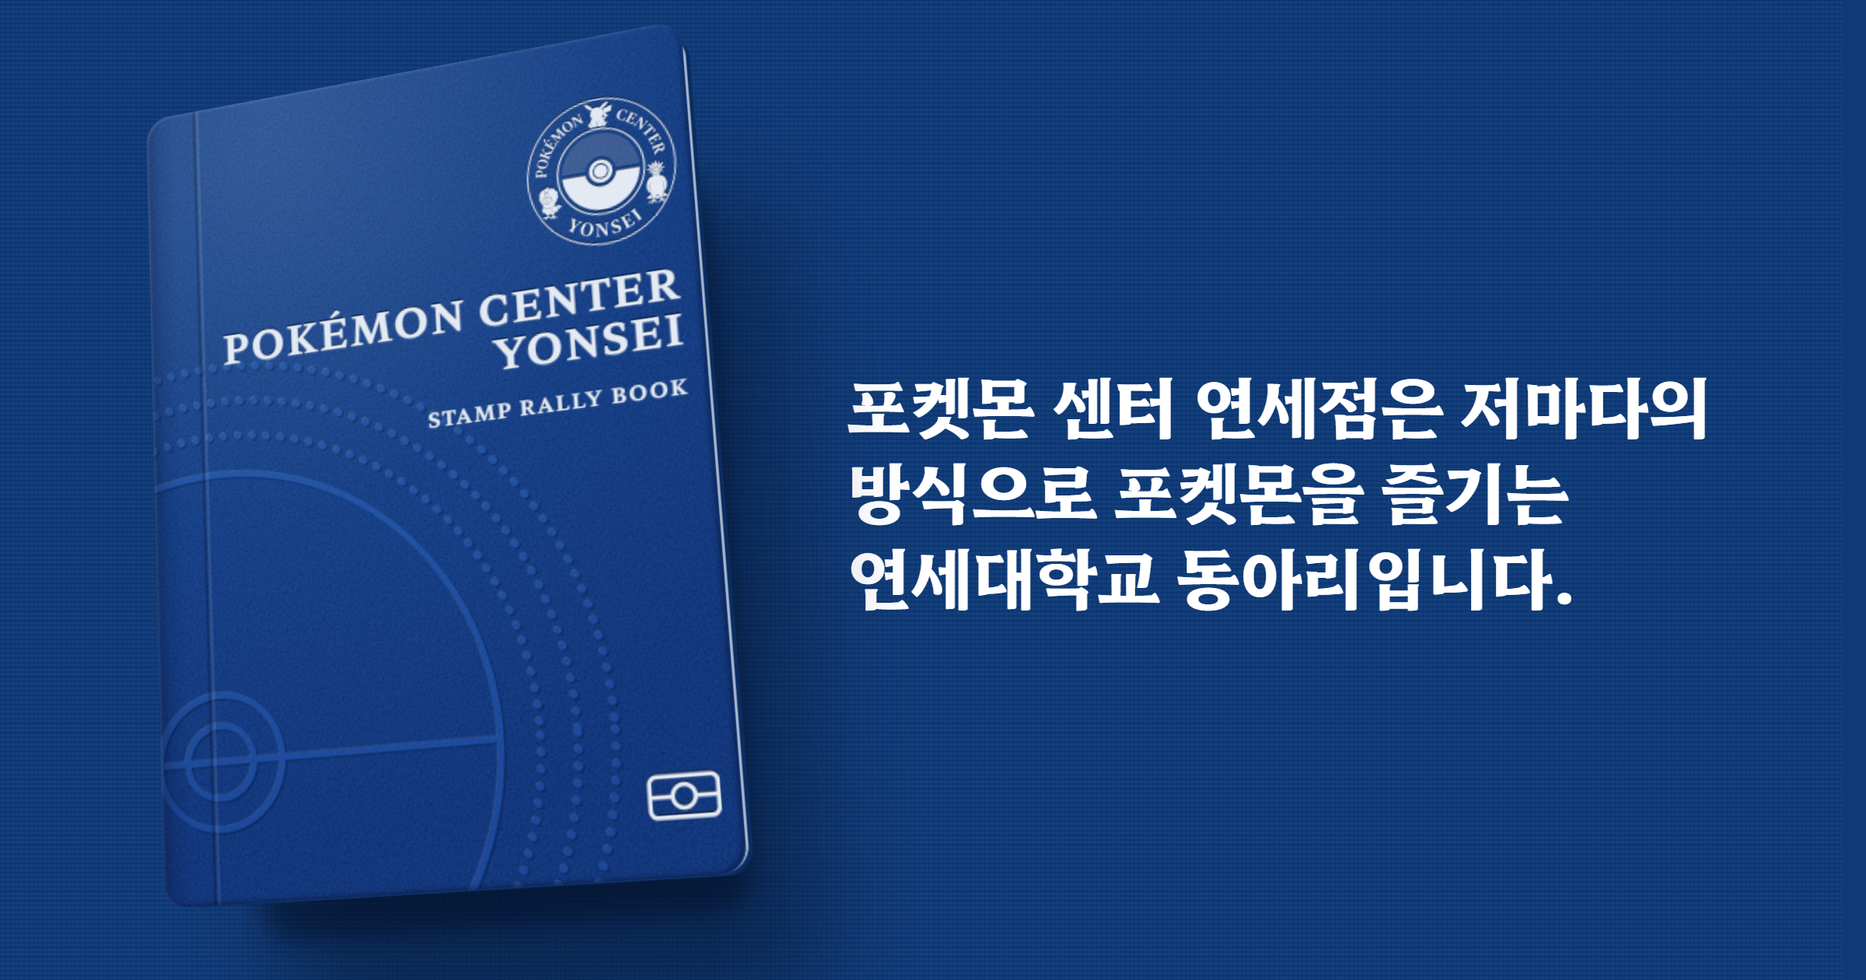
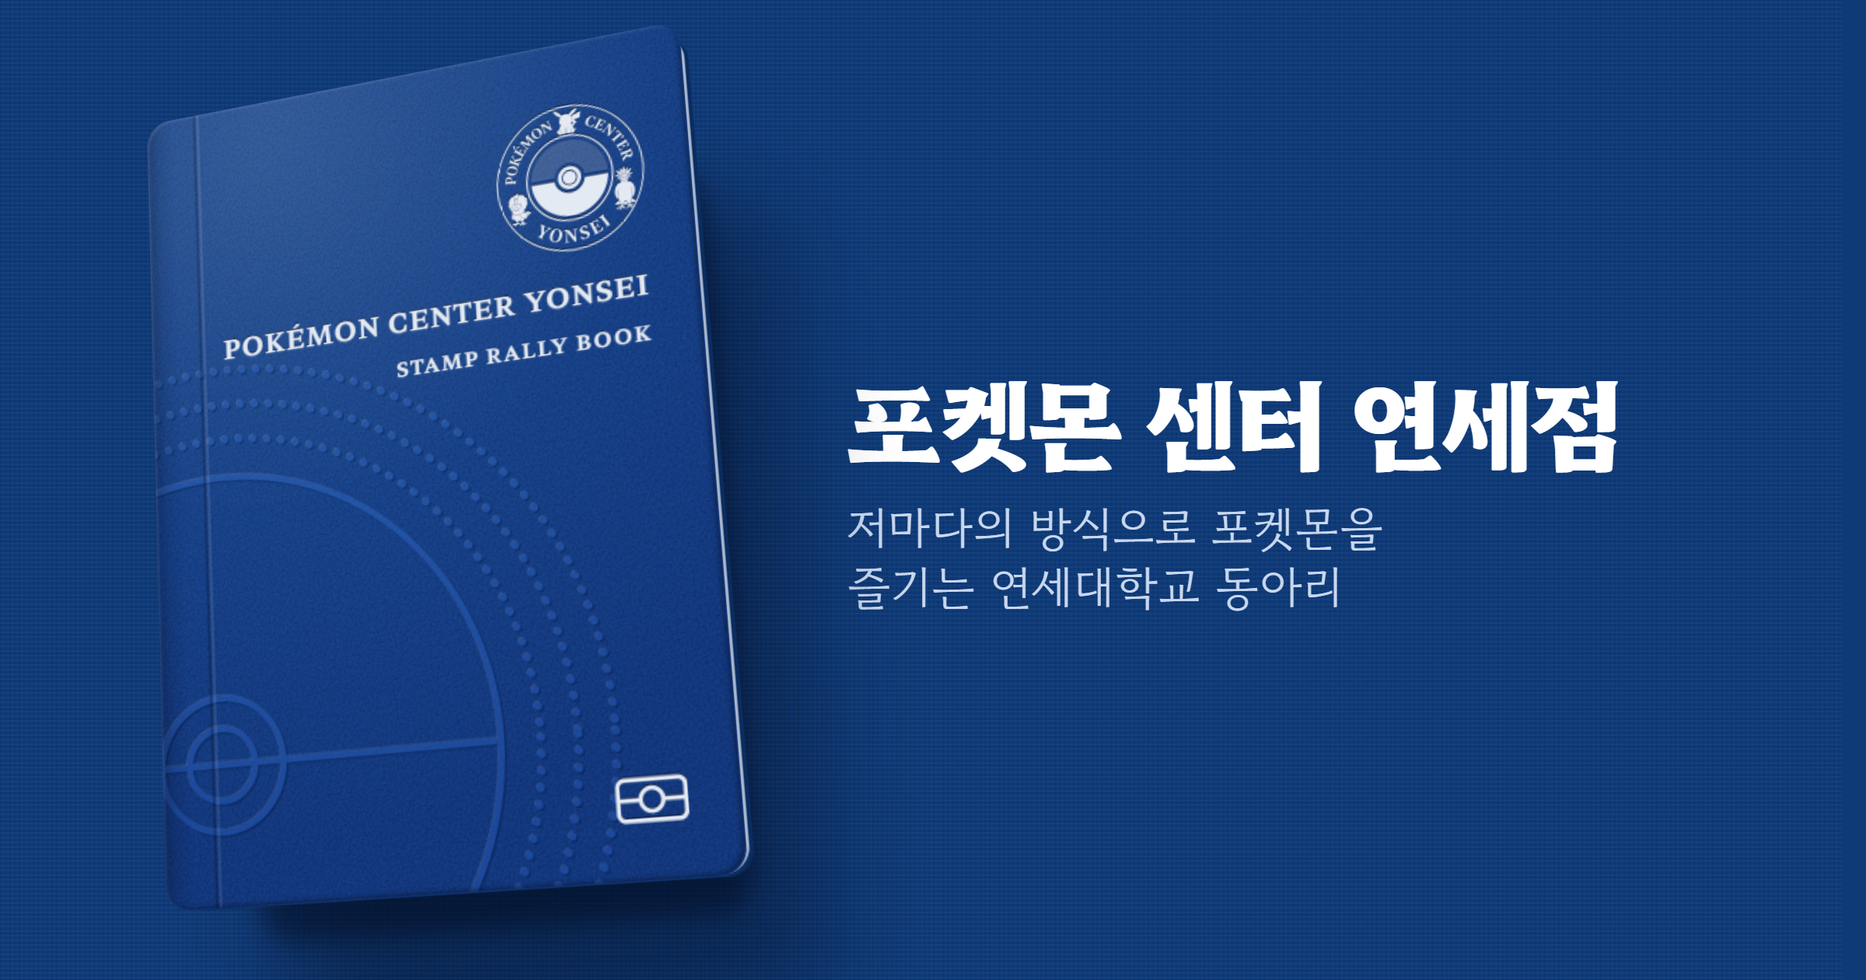
첫 화면 간결하게: 여권, 한 줄 이름, 한 줄 소개, 가입 표
- 첫 화면에서 설명 문장과 자료 네 칸을 빼고 큰 동아리 이름(h1), 한 줄, 가입 표만
- 자료 네 칸(회원, 정기 모임, 회비, 가입 대상)은 소개 쪽 아래로, 소개 문단의 회원 수 중복 제거(세 언어)
- 동아리 이름은 첫 화면과 여권 표지 모두 한 줄, 글자 크기는 칸 폭에 맞춤
- 휴대폰 첫 화면은 여권을 키우고 글을 가운데 맞춤
- 공유 카드와 만드는 스크립트, CLAUDE.md, DESIGN.md 갱신

diff --git a/CLAUDE.md b/CLAUDE.md
@@ -11,7 +11,7 @@
 | 경로 | 설명 |
 |---|---|
 | `index.html` | **사이트 전체.** CSS, JS, 이미지(base64)가 전부 인라인된 단일 파일이자 유일한 편집 대상. 약 1.4MB |
-| `og.png` | 1200×630 링크 공유 카드(2배 해상도 2400×1260). **첫 화면을 간추려 찍은 것**(덮어 둔 여권과 소개 한 줄만) — 따로 그리지 말고 `node scripts/make-og.mjs`로 다시 만든다. 첫 화면을 고치면 이것도 다시 만들 것 |
+| `og.png` | 1200×630 링크 공유 카드(2배 해상도 2400×1260). **첫 화면을 간추려 찍은 것**(여권과 동아리 이름, 한 줄만) — 따로 그리지 말고 `node scripts/make-og.mjs`로 다시 만든다. 첫 화면을 고치면 이것도 다시 만들 것 |
 | `.github/workflows/static.yml` | 자동 배포 설정. 건드리지 말 것 |
 | `scripts/` | 검증·이미지 처리 도구. 이 중 `build.mjs`만 배포에 쓰인다 |
 | `dist/` | 배포 때 자동으로 만들어지는 결과물. Git에 올리지 않고(`.gitignore`) 직접 고치지 않는다 |
@@ -27,7 +27,7 @@
 
 - **세 언어의 키 집합이 완전히 동일**해야 한다 (현재 270개 × 3).
 - **HTML에 직접 적힌 기본 텍스트 = `ko` 값**이어야 한다. 어긋나면 언어 버튼을 한 번도 누르지 않은 첫 방문자에게만 다른 문구가 보인다. 실제로 이 버그로 한국어 페이지에 마스코트 타입 칩이 영어로 떠 있었다.
-- 문구에 가운뎃점(·)을 쓰지 않는다. 나열은 쉼표나 평범한 문장으로 쓴다. (자료 칸의 영어 고정폭 이름표 CLUB, MEMBERS 등, 도장 안의 영어, 첫 화면 여권 표지의 영어(POKÉMON CENTER / YONSEI, STAMP RALLY BOOK)는 번역 대상이 아니라 디자인 요소다. 표지의 h1에는 각 언어의 동아리 이름(`brand`)이 화면 낭독기용 숨은 글자로 들어 있다. 제목 위에 영어 머리말을 다는 것은 금지다. 아래 디자인 체계 참고.)
+- 문구에 가운뎃점(·)을 쓰지 않는다. 나열은 쉼표나 평범한 문장으로 쓴다. (자료 칸의 영어 고정폭 이름표 CLUB, MEMBERS 등, 도장 안의 영어, 첫 화면 여권 표지의 영어(POKÉMON CENTER YONSEI 한 줄, STAMP RALLY BOOK)는 번역 대상이 아니라 디자인 요소다. 표지의 h1에는 각 언어의 동아리 이름(`brand`)이 화면 낭독기용 숨은 글자로 들어 있다. 제목 위에 영어 머리말을 다는 것은 금지다. 아래 디자인 체계 참고.)
 - 일본어는 전각 물음표(？)와 느낌표(！)를 쓰고, 학교 이름은 「延世大学」, 지명은 「シンチョン」처럼 일본어 독자가 읽는 대로 적는다. 영어에는 줄표(—)를 쓰지 않는다.
 - 문구를 고친 뒤에는 세 언어를 노트북 화면과 휴대폰 화면에서 모두 확인한다. 마지막 줄에 한두 글자만 남으면 문장을 줄인다.
 - 사전에만 있고 안 쓰이는 키, HTML에서 쓰는데 사전에 없는 키가 없어야 한다.
@@ -36,7 +36,7 @@
 
 키 접두사: `meta. brand. nav. hero. about. history. act. sub. ypl. mas. mem. faq. join. facts. contact. foot.`(섹션 문구), `ed. er. em* ey. eg. ec.`(임원 메타), `pn.<한글이름>`(인물), `pk.<한글포켓몬>`(포켓몬), `a11y.`(보조 문구). 대체 텍스트용 `data-i18n-aria`(마스코트 그림)와 스크립트에서만 쓰는 키(`contact.copied`)도 있다.
 
-`facts.*`는 첫 화면 자료 칸(천 위의 네 칸: 회원, 정기 모임, 회비, 가입 대상)의 회비, 가입 대상, 정기 모임 값이다. 회비나 회원 수가 바뀌면 FAQ, 소개 문단과 함께 여기도 고친다. 회원 수는 첫 화면 자료 칸(MEMBERS 줄의 `<b>130</b>`)에도 적혀 있다.
+`facts.*`는 소개 쪽 아래 자료 칸(네 칸: 회원, 정기 모임, 회비, 가입 대상)의 회비, 가입 대상, 정기 모임 값이다. 회비나 회원 수가 바뀌면 FAQ와 함께 여기도 고친다. 회원 수는 자료 칸 MEMBERS 줄의 `<b>130</b>`에 적혀 있다(2026-11-09에 첫 화면에서 소개 쪽으로 옮겼다).
 
 임원 한 명은 이름(`pn.`), 직책(`er.`), 학과(`em`), 학번(`ey.`), 국적(`nat.`), 최애 포켓몬(`pk.`)으로 이루어진다. 학과 이름은 모두 "~학과"로 쓴다(학부로 쓰지 않는다). 국적은 모두 표시하고, 기본값은 `nat.kr`이다. 국기는 이모지가 아니라 직접 그린 SVG 기호(`#f-kr`, `#f-jp`, `#f-fr`)다. 이모지 국기는 윈도우에서 글자로 보이기 때문이다. 새 국적을 추가하려면 같은 방식으로 `#f-<코드>` 기호를 그리고 `nat.<코드>` 문구를 세 언어로 넣는다(화면 낭독기용으로 이름이 함께 들어간다). 외국인 임원은 이름을 성과 이름 모두 적는다(예: 나카쓰지 아오바 / Aoba Nakatsuji / 中辻 青葉).
 
@@ -87,7 +87,7 @@
 
 - **천과 속지**: 페이지 바탕은 연세 블루 천 표지(`--cloth` #0E3A78, 가는 직조 무늬 `--weave`). 내용은 흰 속지(`.paper`, 위아래 가장자리에만 옅은 보안 무늬 띠 `--print-url`, 모서리 3px, 종이 그림자)에 담긴다. 쪽마다 물건이 다르다: 질문은 풀칠한 천 띠와 절취선이 있는 메모장, 가입은 보안 무늬가 온 면에 깔린 면지. 모든 쪽은 같은 폭과 같은 왼쪽 선에 반듯하게 놓인다(2026-11-09에 쪽마다 다른 폭, 자리, 기울기를 없앴다. 기울기는 도장, 사진, 여권 같은 물건에만). 섹션 하나가 한 쪽(`.page.sheet`)이고, 쪽 아래에 색인 번호와 같은 쪽 번호(`.folio`, 01~08)가 있다. 리그만 천 위에 따로 놓인 입장권(`.loose` 안의 `.pass`)이다.
 - **도장**(`.stamp`): 잉크 넷(`--ink-blue` #1D4FA0, `--ink-red` #C2331F, `--ink-green` #23724A, `--ink-violet` #5B3FA0) 중 하나로, `filter: url(#ink)`의 얼룩진 잉크 결과 기울기(`--r`). 작은 그림 도장은 결만 남기는 `#ink-soft`. 잉크 결과 돌림 색은 캐릭터가 있는 도장에만 쓰고, 글자만 있는 꼬리표(부서 이름, 질문 묶음, 소모임, 칩)는 결 없는 파랑 인쇄 글자다. 화면에 들어오면 찍힌다(`.pressed`, 한 칸 안에서는 `--d` 순서로). 기기의 움직임 줄이기 설정에서는 처음부터 찍혀 있다(화면에 끄는 단추는 2026-10-18에 없앴다). 공식 포켓몬 미니 스탬프처럼 틀(둥근 사각, 원, 물결 원)을 꽉 채운 무늬(빗금, 점) 위에 2D 캐릭터를 가운데 크게 두고, 아래 리본 띠에 날짜나 단어를 흰 글자로 판다. 첫 화면 엠블럼도 `#emb-ink` 필터로 찍은 도장이다. 질문 답 앞 표시는 빨간 몬스터볼 도장이다.
-- **부품**: 첫 화면의 여권(`.passport` 안의 `.book`. CSS 3D로 세운 책 한 권: 앞표지 `.cover` 밑에 같은 둥근 모양의 얇은 장 14장을 겹친 두께, 가죽 돋음과 빛, 천 위 그림자, 책등 쪽 그늘과 접는 홈. 천 위에 살짝 떠서 8초에 한 번 천천히 위아래와 좌우로 흔들린다(커서와는 상호작용하지 않는다). 화면 크기에 맞춰 비율 그대로 줄고 는다. 실제 여권 문법: 무광 한 색, 오른쪽 위 은박 엠블럼, 오른쪽 맞춤 이름 묶음, 색 없이 눌러 찍은 몬스터볼과 점 호, 전자여권 표시)와 옆(휴대폰은 아래)의 천 위 핵심 글(`.hero-copy`: 소개 한 줄, 자료 네 칸, 가입 표. YPL 링크는 리그 입장권과 바닥글에만), 자료 칸(`.fields`)과 기계 판독 줄(`.mrz`), 입국 도장(연혁 `.entry`), 한 학기의 도장 카드(`.road`), 반원 홈이 파인 표 단추(`.ticket`, 흰색 `.white`, 빨강 `.red`), 리그 입장권(`.pass`), 마스코트 등록 카드(`.dex`), 우표(`.exec-member` 안의 `.perf`, 가장자리 구멍은 마스크. 직책 꼬리표는 회장, 부회장, 부장에게만), 질문 줄(`.faq-item`, 답 앞의 붉은 A 도장), 마지막 빈 도장 자리와 환영 도장(`.final`, `.welcome`), 스탬프 랠리(`.rally`: 쪽 번호가 0.4초 보이면 그 쪽의 작은 도장 `.mini`가 가입 쪽 랠리 카드에 찍힌다. 쪽 안(쪽 번호 옆)과 머리줄에는 찍지 않는다. 그림은 기존 도장 그림을 빌려 쓰고, 방문마다 새로 모은다), 머리줄의 색인(`.sect-list`, Hahmlet 700 17px, 천 위의 흰 글자만, 지금 쪽 아래에 가는 실 한 줄. 색 꼬리표는 2026-10-18에 없앴다), 뒤표지(`.footer`, 페이지와 같은 천 바탕에 은박 엠블럼과 이름, 좌우를 뒤집은 몬스터볼 무늬, 연락처 링크, 기계 판독 줄. 바코드는 리그 입장권에만. 머리줄과 같은 메뉴는 두지 않는다). 기계 판독 줄(MRZ)은 실제 여권(TD3)처럼 두 줄 모두 44자다.
+- **부품**: 첫 화면의 여권(`.passport` 안의 `.book`. CSS 3D로 세운 책 한 권: 앞표지 `.cover` 밑에 같은 둥근 모양의 얇은 장 14장을 겹친 두께, 가죽 돋음과 빛, 천 위 그림자, 책등 쪽 그늘과 접는 홈. 천 위에 살짝 떠서 8초에 한 번 천천히 위아래와 좌우로 흔들린다(커서와는 상호작용하지 않는다). 화면 크기에 맞춰 비율 그대로 줄고 는다. 실제 여권 문법: 무광 한 색, 오른쪽 위 은박 엠블럼, 오른쪽 맞춤 이름 묶음, 색 없이 눌러 찍은 몬스터볼과 점 호, 전자여권 표시)와 옆(휴대폰은 아래, 가운데 맞춤)의 천 위 글(`.hero-copy`: 큰 동아리 이름 h1 `.hero-title`, 한 줄 `.hero-lead`, 가입 표 하나. 설명은 여권이 대신한다. YPL 링크는 리그 입장권과 바닥글에만), 소개 쪽 아래의 자료 칸(`.fields`, 여권의 신원 정보면 말투), 입국 도장(연혁 `.entry`), 한 학기의 도장 카드(`.road`), 반원 홈이 파인 표 단추(`.ticket`, 흰색 `.white`, 빨강 `.red`), 리그 입장권(`.pass`), 마스코트 등록 카드(`.dex`), 우표(`.exec-member` 안의 `.perf`, 가장자리 구멍은 마스크. 직책 꼬리표는 회장, 부회장, 부장에게만), 질문 줄(`.faq-item`, 답 앞의 붉은 A 도장), 마지막 빈 도장 자리와 환영 도장(`.final`, `.welcome`), 스탬프 랠리(`.rally`: 쪽 번호가 0.4초 보이면 그 쪽의 작은 도장 `.mini`가 가입 쪽 랠리 카드에 찍힌다. 쪽 안(쪽 번호 옆)과 머리줄에는 찍지 않는다. 그림은 기존 도장 그림을 빌려 쓰고, 방문마다 새로 모은다), 머리줄의 색인(`.sect-list`, Hahmlet 700 17px, 천 위의 흰 글자만, 지금 쪽 아래에 가는 실 한 줄. 색 꼬리표는 2026-10-18에 없앴다), 뒤표지(`.footer`, 페이지와 같은 천 바탕에 은박 엠블럼과 이름, 좌우를 뒤집은 몬스터볼 무늬, 연락처 링크, 기계 판독 줄. 바코드는 리그 입장권에만. 머리줄과 같은 메뉴는 두지 않는다). 기계 판독 줄(MRZ)은 실제 여권(TD3)처럼 두 줄 모두 44자다.
 - **글꼴 역할 다섯**: 제목(Hahmlet 800), 값과 누르는 것과 꼬리표(`.val`, 표 단추, 탭, 링크, 부서 이름, 칩, 직책. Hahmlet 700), 도장 띠에 판 글자(Black Han Sans, 도장 안에서만), 자료 이름표(`.mono`, B612 Mono), 본문(Gowun Dodum, 한글 이름표 `.lbl`). 일본어는 Shippori Mincho B1, Zen Kaku Gothic New. 영어 고정폭 이름표(CLUB, MEMBERS 등)는 번역하지 않는 디자인 요소다.
 - **광학 중앙**: 상자 안 한 줄 글자(표, 탭, 꼬리표, 직책)는 줄 높이 1에 글꼴별 보정(`--opt-stamp-t/b`, `--opt-ink-t/b`, `--opt-mono-t/b`)만 위아래 여백으로 주고, 가로는 `--px`(표는 홈 쪽 `--pl`)에 `--opt-stamp-x`, `--opt-ink-x`를 더하고 뺀다. 좌우 여백을 `padding` 축약형으로 다시 적으면 이 보정이 지워지니 `--px`만 바꿀 것. 글꼴을 바꾸면 보정값을 다시 잰다(잉크 중심과 상자 중심 차이를 0.5px 안으로).
 - **크기와 여백의 법칙**: 글자 크기는 `--fs-1`~`--fs-10`(17px에서 1.25배씩), 여백은 `--sp-1`~`--sp-9`(8px 바탕, 1.5배씩), 자간은 `--ls-*`, 줄 간격은 `--lh-*` 토큰만 쓴다. 덩어리 안은 4~12, 같은 묶음 항목 사이는 12~24, 묶음 사이는 48. 자세한 표는 `DESIGN.md`의 Typography와 Layout.

diff --git a/DESIGN.md b/DESIGN.md
@@ -249,11 +249,11 @@ components:
 - 쪽 머리(제목과 소개) 다음 첫 본문에는 `.page-body`를 붙여 묶음 사이 간격을 준다.
 
 ### 쪽마다 자기 배치
-- **첫 화면:** 천 위에 덮어 둔 여권 한 권(`.passport`)과 핵심 글(`.hero-copy`)만 나란히(세운 좁은 화면에서는 여권 아래로 글). 여권은 CSS 3D로 세운 진짜 책 한 권이다(`.passport` 안의 `.book`: 앞표지 `.cover` 밑에 표지와 같은 둥근 모양의 얇은 장 `.ly` 14장을 겹쳐 두께를 만든다. 위부터 앞표지 안쪽 파랑 둘, 종이 열, 뒤표지 파랑 둘. 단면을 따로 붙이지 않아 모서리까지 끊김 없이 둥글다). 두께는 여권 폭의 6.5%, 13도 뒤로 눕고 24도 돌아 오른쪽 종이 단면이 가는 띠로 보인다. 표지에는 빛을 받는 가죽 돋음(`--leather`)과 왼쪽 위에서 오는 빛, 둥글게 접힌 가장자리 턱이 있고, 은박 글자와 엠블럼은 눌러 찍은 자리처럼 위는 그늘, 아래는 빛이 진다. 그림자는 천 위에 평면으로 두 겹(짙은 접촉 그늘, 넓게 퍼진 그늘). 천 위에 살짝 떠 있고, 8초에 한 번 천천히 숨 쉬듯 흔들린다(위아래로 여권 폭의 6%까지, 좌우 회전 ±5도 안쪽, 오를 때 그림자가 옅어진다). 커서와는 상호작용하지 않고, 움직임 줄이기에서는 멈춘다. 여권은 비율 88:125를 절대 바꾸지 않고, 폭은 화면 높이에 맞춰 280~400px(휴대폰 160~260px, 화면 폭의 46% 이하. 휴대폰 첫 화면 안에 소개 한 줄, 자료 네 칸(두 칸씩), 가입 표까지 들어오게). 왼쪽에 책등으로 감기는 그늘과 접는 홈이 있다. 표지 안의 모든 치수는 여권 폭(`cqi`) 기준이라 어떤 화면에서도 같은 모양으로 줄고 는다. 표지 문법은 실제 여권(한국 2021, 노르웨이, 스위스): 네 귀가 같은 둥근 귀, 무광 한 색, 오른쪽 위 은박 엠블럼(폭 27%), 그 아래 엠블럼 지름의 4분의 1만 띄운 오른쪽 맞춤 영어 이름 묶음(POKÉMON CENTER / YONSEI, STAMP RALLY BOOK. 번역하지 않는 디자인 요소이고 각 언어 이름은 h1 안의 숨은 글자), 왼쪽 아래 색 없이 눌러 찍은 몬스터볼과 점 호, 오른쪽 아래 전자여권 표시. 핵심 글은 천 위 흰 글자: 동아리 이름으로 시작하는 소개 한 줄(Hahmlet 700. 한국어 방문자가 첫 화면에서 이름을 읽게), 자료 네 칸(MEMBERS, MEETUP, FEE, ELIGIBILITY, 고정폭 이름표와 값), 흰 가입 표 하나. 첫 화면이 할 일은 가입 하나라 YPL 링크를 두지 않는다. 글 길이가 언어마다 달라도 여권의 크기와 자리, 바탕은 바뀌지 않는다.
+- **첫 화면:** 천 위에 덮어 둔 여권 한 권(`.passport`)과 핵심 글(`.hero-copy`)만 나란히(세운 좁은 화면에서는 여권 아래로 글). 여권은 CSS 3D로 세운 진짜 책 한 권이다(`.passport` 안의 `.book`: 앞표지 `.cover` 밑에 표지와 같은 둥근 모양의 얇은 장 `.ly` 14장을 겹쳐 두께를 만든다. 위부터 앞표지 안쪽 파랑 둘, 종이 열, 뒤표지 파랑 둘. 단면을 따로 붙이지 않아 모서리까지 끊김 없이 둥글다). 두께는 여권 폭의 6.5%, 13도 뒤로 눕고 24도 돌아 오른쪽 종이 단면이 가는 띠로 보인다. 표지에는 빛을 받는 가죽 돋음(`--leather`)과 왼쪽 위에서 오는 빛, 둥글게 접힌 가장자리 턱이 있고, 은박 글자와 엠블럼은 눌러 찍은 자리처럼 위는 그늘, 아래는 빛이 진다. 그림자는 천 위에 평면으로 두 겹(짙은 접촉 그늘, 넓게 퍼진 그늘). 천 위에 살짝 떠 있고, 8초에 한 번 천천히 숨 쉬듯 흔들린다(위아래로 여권 폭의 6%까지, 좌우 회전 ±5도 안쪽, 오를 때 그림자가 옅어진다). 커서와는 상호작용하지 않고, 움직임 줄이기에서는 멈춘다. 여권은 비율 88:125를 절대 바꾸지 않고, 폭은 화면 높이에 맞춰 280~400px(휴대폰 160~260px, 화면 폭의 46% 이하. 휴대폰 첫 화면 안에 소개 한 줄, 자료 네 칸(두 칸씩), 가입 표까지 들어오게). 왼쪽에 책등으로 감기는 그늘과 접는 홈이 있다. 표지 안의 모든 치수는 여권 폭(`cqi`) 기준이라 어떤 화면에서도 같은 모양으로 줄고 는다. 표지 문법은 실제 여권(한국 2021, 노르웨이, 스위스): 네 귀가 같은 둥근 귀, 무광 한 색, 오른쪽 위 은박 엠블럼(폭 27%), 그 아래 엠블럼 지름의 4분의 1만 띄운 오른쪽 맞춤 영어 이름 묶음(한 줄 POKÉMON CENTER YONSEI, 그 아래 STAMP RALLY BOOK. 번역하지 않는 디자인 요소이고 각 언어 이름은 h1 안의 숨은 글자), 왼쪽 아래 색 없이 눌러 찍은 몬스터볼과 점 호, 오른쪽 아래 전자여권 표시. 옆의 글은 셋뿐이다: 큰 동아리 이름(h1 `.hero-title`, 제목 글꼴 800, 흰색. 세 언어 모두 한 줄이고 글자 크기가 글 칸 폭(`cqi`)에 맞춰 줄어든다. 넓은 화면 최대 65px, 글 칸 최대 36rem), 한 줄(`.hero-lead`, 21px, `on-cloth-2`), 흰 가입 표 하나. 설명하는 문장과 자료 칸은 두지 않는다(2026-11-09: 설명이 많아 서술처럼 보였다. 감각은 3D 여권이 맡는다). 휴대폰에서는 여권 아래에 가운데 맞춤. 첫 화면이 할 일은 가입 하나라 YPL 링크를 두지 않는다. 글 길이가 언어마다 달라도 여권의 크기와 자리, 바탕은 바뀌지 않는다.
 - **활동:** 한 학기 도장 카드 네 칸, 점선 아래 활동 둘(격주 정모와 배틀 대회, 나란히 두 칸, 잉크색 제목 아래 글. 860px 미만에서 한 줄씩), 다시 점선 아래 소모임 띠(제목, 한 줄 설명, 고무도장 꼬리표), 맨 끝에 인스타그램 한 줄(글과 글자 링크). 소모임 이야기는 이 띠 한 곳에만.
 - **쪽의 폭과 자리:** 모든 쪽은 같은 폭(최대 1200px), 같은 왼쪽 선이다. 쪽마다 폭이나 자리를 바꾸지 않는다(2026-11-09에 없앴다. 제목 왼쪽 끝이 60px씩 오락가락해 흔들려 보였다).
 - 마스코트 쪽만 제목과 소개를 가운데 축에 둔다(두 마리가 마주 보는 쪽). 질문 쪽은 861px 이상에서 메모장 두 칸(1:3): 왼쪽에 쪽 제목(조금 작게, 목록을 따라 내려옴), 오른쪽에 묶음 이름표와 질문이 차례로. 같은 폭, 같은 왼쪽 선의 쪽 안에서 구성만 바꿔 일곱 쪽의 리듬이 단조롭지 않게 한다.
-- 소개는 5:7 두 칸(왼쪽 위 큰 제목, 오른쪽 글 묶음 끝 오른쪽에 SINCE 2022 도장. 대각선 구도), 연혁은 두 줄 도장 목록, 마스코트는 카드 두 장과 화살표, 질문은 줄 목록, 가입은 글과 도장 자리 두 칸. 리그 입장권만 `.loose`로 천 위에 따로 놓인다.
+- 소개는 5:7 두 칸(왼쪽 위 큰 제목, 오른쪽 글 묶음 끝 오른쪽에 SINCE 2022 도장. 대각선 구도) 아래에 자료 네 칸(`.fields`: MEMBERS, MEETUP, FEE, ELIGIBILITY. 2px 점선 위에 고정폭 이름표와 값, 넓은 화면 네 칸, 860px 미만 두 칸). 여권을 펼친 첫 쪽의 신원 정보면이다. 연혁은 두 줄 도장 목록, 마스코트는 카드 두 장과 화살표, 질문은 줄 목록, 가입은 글과 도장 자리 두 칸. 리그 입장권만 `.loose`로 천 위에 따로 놓인다.
 - **머리줄:** 높이 64px(900px 미만 56px).
 
 ### Named Rules
@@ -304,7 +304,7 @@ components:
 - **글자 링크 (`.link`):** 표 옆의 보조 길. 파랑 잉크 글자에 2px 밑줄, 높이 44px.
 
 ### 자료 칸 (`.fields`, `.field`, 마스코트 `.specs`)
-항목 이름(고정폭 대문자 `.mono` + 한글 이름표 `.lbl`)과 값(`.val`). 첫 화면 천 위의 네 칸(위에 점선)과 마스코트 카드의 키와 몸무게(HEIGHT, WEIGHT)가 같은 말투다. 영어에서는 고정폭 이름표 옆의 작은 이름표를 숨긴다(MEMBERS Members처럼 되풀이되므로). 회원 수와 회비가 바뀌면 이 칸도 바뀐다. 기계 판독 줄(MRZ)은 뒤표지에만 있고 실제 여권(TD3)처럼 44자다.
+항목 이름(고정폭 대문자 `.mono` + 한글 이름표 `.lbl`)과 값(`.val`). 소개 쪽 아래의 네 칸(위에 점선)과 마스코트 카드의 키와 몸무게(HEIGHT, WEIGHT)가 같은 말투다. 영어에서는 고정폭 이름표 옆의 작은 이름표를 숨긴다(MEMBERS Members처럼 되풀이되므로). 회원 수와 회비가 바뀌면 이 칸도 바뀐다. 기계 판독 줄(MRZ)은 뒤표지에만 있고 실제 여권(TD3)처럼 44자다.
 
 ### 쪽 번호 (`.folio`)
 각 쪽 아래 가운데의 두 자리 번호(01에서 08), 양옆에 짧은 선. 색인 번호와 같다.
